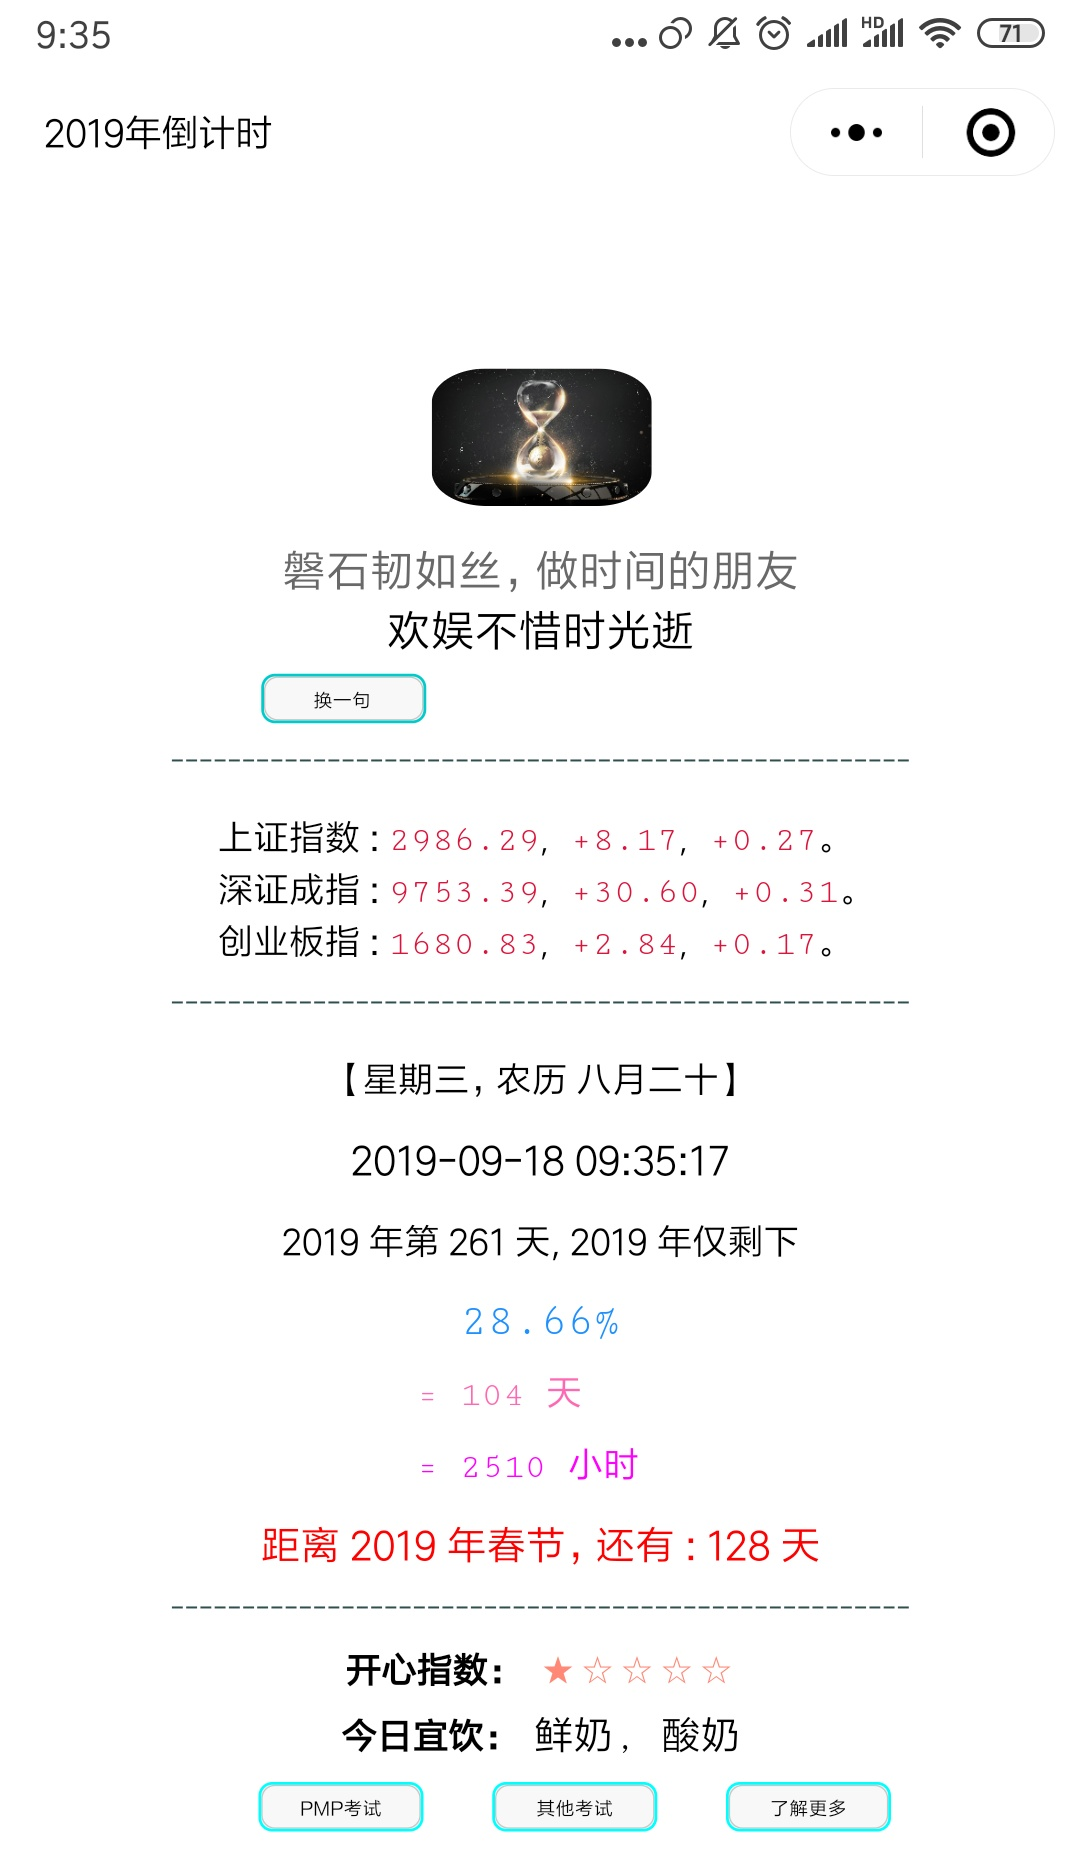
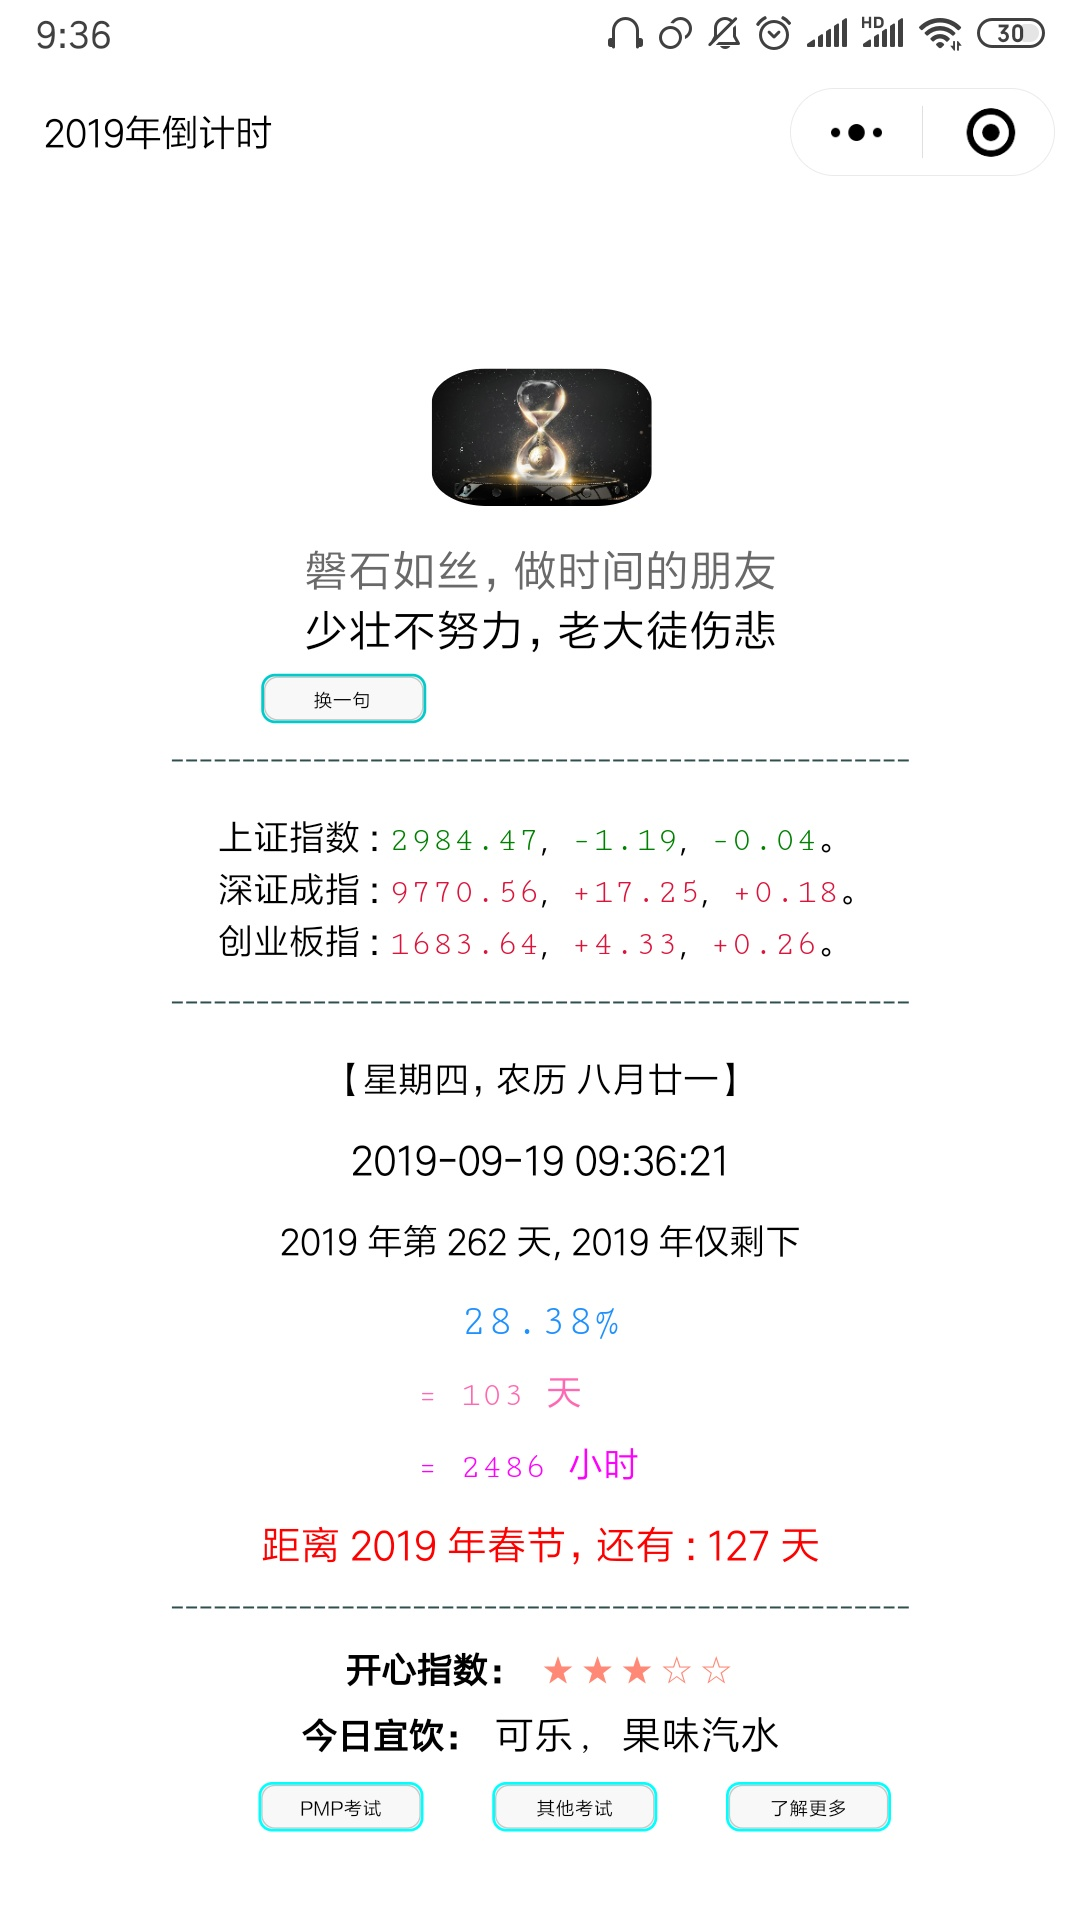
例行更新 20190919

diff --git a/source/_posts/001_2-FD_my_life_records-2019.md b/source/_posts/001_2-FD_my_life_records-2019.md
@@ -1,5 +1,5 @@
 ---
-title: 坚持的力量之数据人生-2019年9月18日
+title: 坚持的力量之数据人生-2019年9月19日
 tags:
   - 数据人生
   - 参考模板
@@ -20,14 +20,14 @@ keywords:
   - 宽978高553
 photos:
   - '/images/001_2/photos.png'
-description: 今天：2019 年 9 月 18 日，2019 年仅剩下 104 天。坚持记录和分析生活中的数据、信息和事件，尊重历史数据、信息和事件，人生将会更美好。
-date: 2019-09-18 00:02:05
+description: 今天：2019 年 9 月 19 日，2019 年仅剩下 103 天。坚持记录和分析生活中的数据、信息和事件，尊重历史数据、信息和事件，人生将会更美好。
+date: 2019-09-19 00:02:05
 ---
 <script type="text/javascript" src="/js/src/bai.js"></script>
 
-### 坚持的力量之数据人生-2019年9月18日
+### 坚持的力量之数据人生-2019年9月19日
 ------
-> 今天：2019 年 9 月 18 日，2019 年仅剩下 104 天。坚持记录和分析生活中的数据、信息和事件，尊重历史数据、信息和事件，人生将会更美好。
+> 今天：2019 年 9 月 19 日，2019 年仅剩下 103 天。坚持记录和分析生活中的数据、信息和事件，尊重历史数据、信息和事件，人生将会更美好。
 >
 > 序言：坚持记录和分析生活中的数据、信息和事件，尊重历史数据、信息和事件，人生将会更美好。
 
@@ -72,14 +72,14 @@ date: 2019-09-18 00:02:05
 
 | 序号 |       名称                                            |  类型  | 开始/结束日期 | 总天数 |          备注                           |
 | :--: | :---------------------------------------------------: | :----: | :-----------: | :----: | :-------------------------------------: |
-|  1   | <font color="#FF0000" size=2>读书荐书第 4/4 更</font> | 倒计时 | 2019/10/01    |  12    | 开始时间：2019/7/1                      |
-|  2   | <font color="#FF0000" size=2>重要节点</font>          | 倒计时 | 2020/03/01    |  168   | 开始时间：2018/6/15 剩余 10 个月        |
-|  3   | <font color="#0000FF" size=2>来上海</font>            | 计时   | 2011/06/25    |  2947  | 第 8 年进行中                           |
-|  4   | <font color="#0000FF" size=2>莫名其妙的计时</font>    | 计时   | 2018/11/12    |  306   | 莫名其妙的计时，希望永远不会停 ！！！   |
+|  1   | <font color="#FF0000" size=2>读书荐书第 4/4 更</font> | 倒计时 | 2019/10/01    |  11    | 开始时间：2019/7/1                      |
+|  2   | <font color="#FF0000" size=2>重要节点</font>          | 倒计时 | 2020/03/01    |  167   | 开始时间：2018/6/15 剩余 10 个月        |
+|  3   | <font color="#0000FF" size=2>来上海</font>            | 计时   | 2011/06/25    |  2948  | 第 8 年进行中                           |
+|  4   | <font color="#0000FF" size=2>莫名其妙的计时</font>    | 计时   | 2018/11/12    |  307   | 莫名其妙的计时，希望永远不会停 ！！！   |
 |  5   | <font color="#FF00FF" size=2>博客总计博文</font>      | 计数   | 2018/08/01    |  207   | [博客](/archives) 博文总计数目          |
 |  6   | <font color="#FF00FF" size=2>读书心得札记</font>      | 计数   | 2018/05/26    |  69    | [读书心得笔记并做笔记](/tags/札记人生/) |
 |  7   | <font color="#FF00FF" size=2>五篇好文推荐</font>      | 计数   | 2018/10/24    |  50    | [美文推荐](/tags/美文推荐/)             |
-|  8   | <font color="#FF00FF" size=2>公众号更新</font>        | 计数   | 2018/12/01    |  115   | [微信公众号（4 篇删除）](https://mp.weixin.qq.com/s/xxIkfGMFU7BaCeCJtdrtDg) |
+|  8   | <font color="#FF00FF" size=2>公众号更新</font>        | 计数   | 2018/12/01    |  116   | [微信公众号（4 篇删除）](https://mp.weixin.qq.com/s/xxIkfGMFU7BaCeCJtdrtDg) |
 
 #### 2. ❤ 今天记账了吗？记了，✔。 ❤
 ##### 2.1 记账信息详情
@@ -87,11 +87,11 @@ date: 2019-09-18 00:02:05
 
 | 日期                                   | 记账新增记录 | 记账总记录 | 记账总天数 | 记账时间      | 备注     |
 | :------:                               | :------:     | :------:   | :------:   | :------:      | :------: |
-|<font color="#000000"> 20190914 </font> | 9            | 10851      | 3127       | 8 年零 198 天 | 无       |
 |<font color="#000000"> 20190915 </font> | 6            | 10857      | 3128       | 8 年零 199 天 | 无       |
 |<font color="#000000"> 20190916 </font> | 4            | 10861      | 3129       | 8 年零 200 天 | 无       |
 |<font color="#000000"> 20190917 </font> | 5            | 10866      | 3130       | 8 年零 201 天 | 无       |
-|<font color="#FF0000"> 20190918 </font> | 4            | 10870      | 3131       | 8 年零 202 天 | 无       |
+|<font color="#000000"> 20190918 </font> | 4            | 10870      | 3131       | 8 年零 202 天 | 无       |
+|<font color="#FF0000"> 20190919 </font> | 5            | 10875      | 3136       | 8 年零 203 天 | 无       |
 
 
 #### 3. 历史数据汇总

diff --git a/source/_posts/001_1-FD_2018_year_all_checker-2019.md b/source/_posts/001_1-FD_2018_year_all_checker-2019.md
@@ -1,5 +1,5 @@
 ---
-title: 2019年每日日常综合打卡-2019年9月18日
+title: 2019年每日日常综合打卡-2019年9月19日
 tags:
   - 数据人生
   - 参考模板
@@ -21,14 +21,14 @@ keywords:
   - 宽978高553
 photos:
   - '/images/001_1/photos.png'
-description: 今天：2019 年 9 月 18 日，2019 年仅剩下 104 天。每天坚持打卡，9 月份针对每个任务打卡，慢慢来，一切都会更好的。
-date: 2019-09-18 00:01:01
+description: 今天：2019 年 9 月 19 日，2019 年仅剩下 103 天。每天坚持打卡，9 月份针对每个任务打卡，慢慢来，一切都会更好的。
+date: 2019-09-19 00:01:01
 ---
 <script type="text/javascript" src="/js/src/bai.js"></script>
 
-### 2019年每日日常综合打卡-2019年9月18日
+### 2019年每日日常综合打卡-2019年9月19日
 ---
-> 今天：2019 年 9 月 18 日，2018 年仅剩下 104 天。每日打卡，9 月份针对每个任务打卡，慢慢来，一切都会更好的。
+> 今天：2019 年 9 月 19 日，2018 年仅剩下 103 天。每日打卡，9 月份针对每个任务打卡，慢慢来，一切都会更好的。
 ---
 
 #### [我的微信公众号](https://mp.weixin.qq.com/s/xxIkfGMFU7BaCeCJtdrtDg)
@@ -73,7 +73,7 @@ date: 2019-09-18 00:01:01
 | 16 |三 ⭕  |六 ⭕  |六 ⭕  |二 ⭕  |四 ⭕  |日 ⭕  |二 ⭕  |五 ⭕  |一 ⭕  |三     |六     |一     |
 | 17 |四 ⭕  |日 ⭕  |日 ⭕  |三 ⭕  |五 ⭕  |一 ⭕  |三 ⭕  |六 ⭕  |二 ⭕  |四     |日     |二     |
 | 18 |五 ⭕  |一 ⭕  |一 ⭕  |四 ⭕  |六 ⭕  |二 ⭕  |四 ⭕  |日 ⭕  |三 ⭕  |五     |一     |三     |
-| 19 |六 ⭕  |二 ⭕  |二 ⭕  |五 ⭕  |日 ⭕  |三 ⭕  |五 ⭕  |一 ⭕  |四     |六     |二     |四     |
+| 19 |六 ⭕  |二 ⭕  |二 ⭕  |五 ⭕  |日 ⭕  |三 ⭕  |五 ⭕  |一 ⭕  |四 ⭕  |六     |二     |四     |
 | 20 |日 ⭕  |三 ⭕  |三 ⭕  |六 ⭕  |一 ⭕  |四 ⭕  |六 ⭕  |二 ⭕  |五     |日     |三     |五     |
 | 21 |一 ⭕  |四 ⭕  |四 ⭕  |日 ⭕  |二 ⭕  |五 ⭕  |日 ⭕  |三 ⭕  |六     |一     |四     |六     |
 | 22 |二 ⭕  |五 ⭕  |五 ⭕  |一 ⭕  |三 ⭕  |六 ⭕  |一 ⭕  |四 ⭕  |日     |二     |五     |日     |
@@ -111,7 +111,7 @@ date: 2019-09-18 00:01:01
 | 16 <font color="#000000">一</font> | ⭕        | ⭕        | ⭕        | ⭕        | ⭕        | ⭕        |           |
 | 17 <font color="#000000">二</font> | ⭕        | ⭕        | ⭕        | ⭕        | ⭕        | ⭕        |           |
 | 18 <font color="#000000">三</font> | ⭕        | ⭕        | ⭕        | ⭕        | ⭕        | ⭕        |           |
-| 19 <font color="#000000">四</font> |           |           |           |           |           |           |           |
+| 19 <font color="#000000">四</font> | ⭕        | ⭕        | ⭕        | ⭕        | ⭕        | ⭕        |           |
 | 20 <font color="#000000">五</font> |           |           |           |           |           |           |           |
 | 21 <font color="#FF0000">六</font> |           |           |           |           |           |           |           |
 | 22 <font color="#FF0000">日</font> |           |           |           |           |           |           |           |
